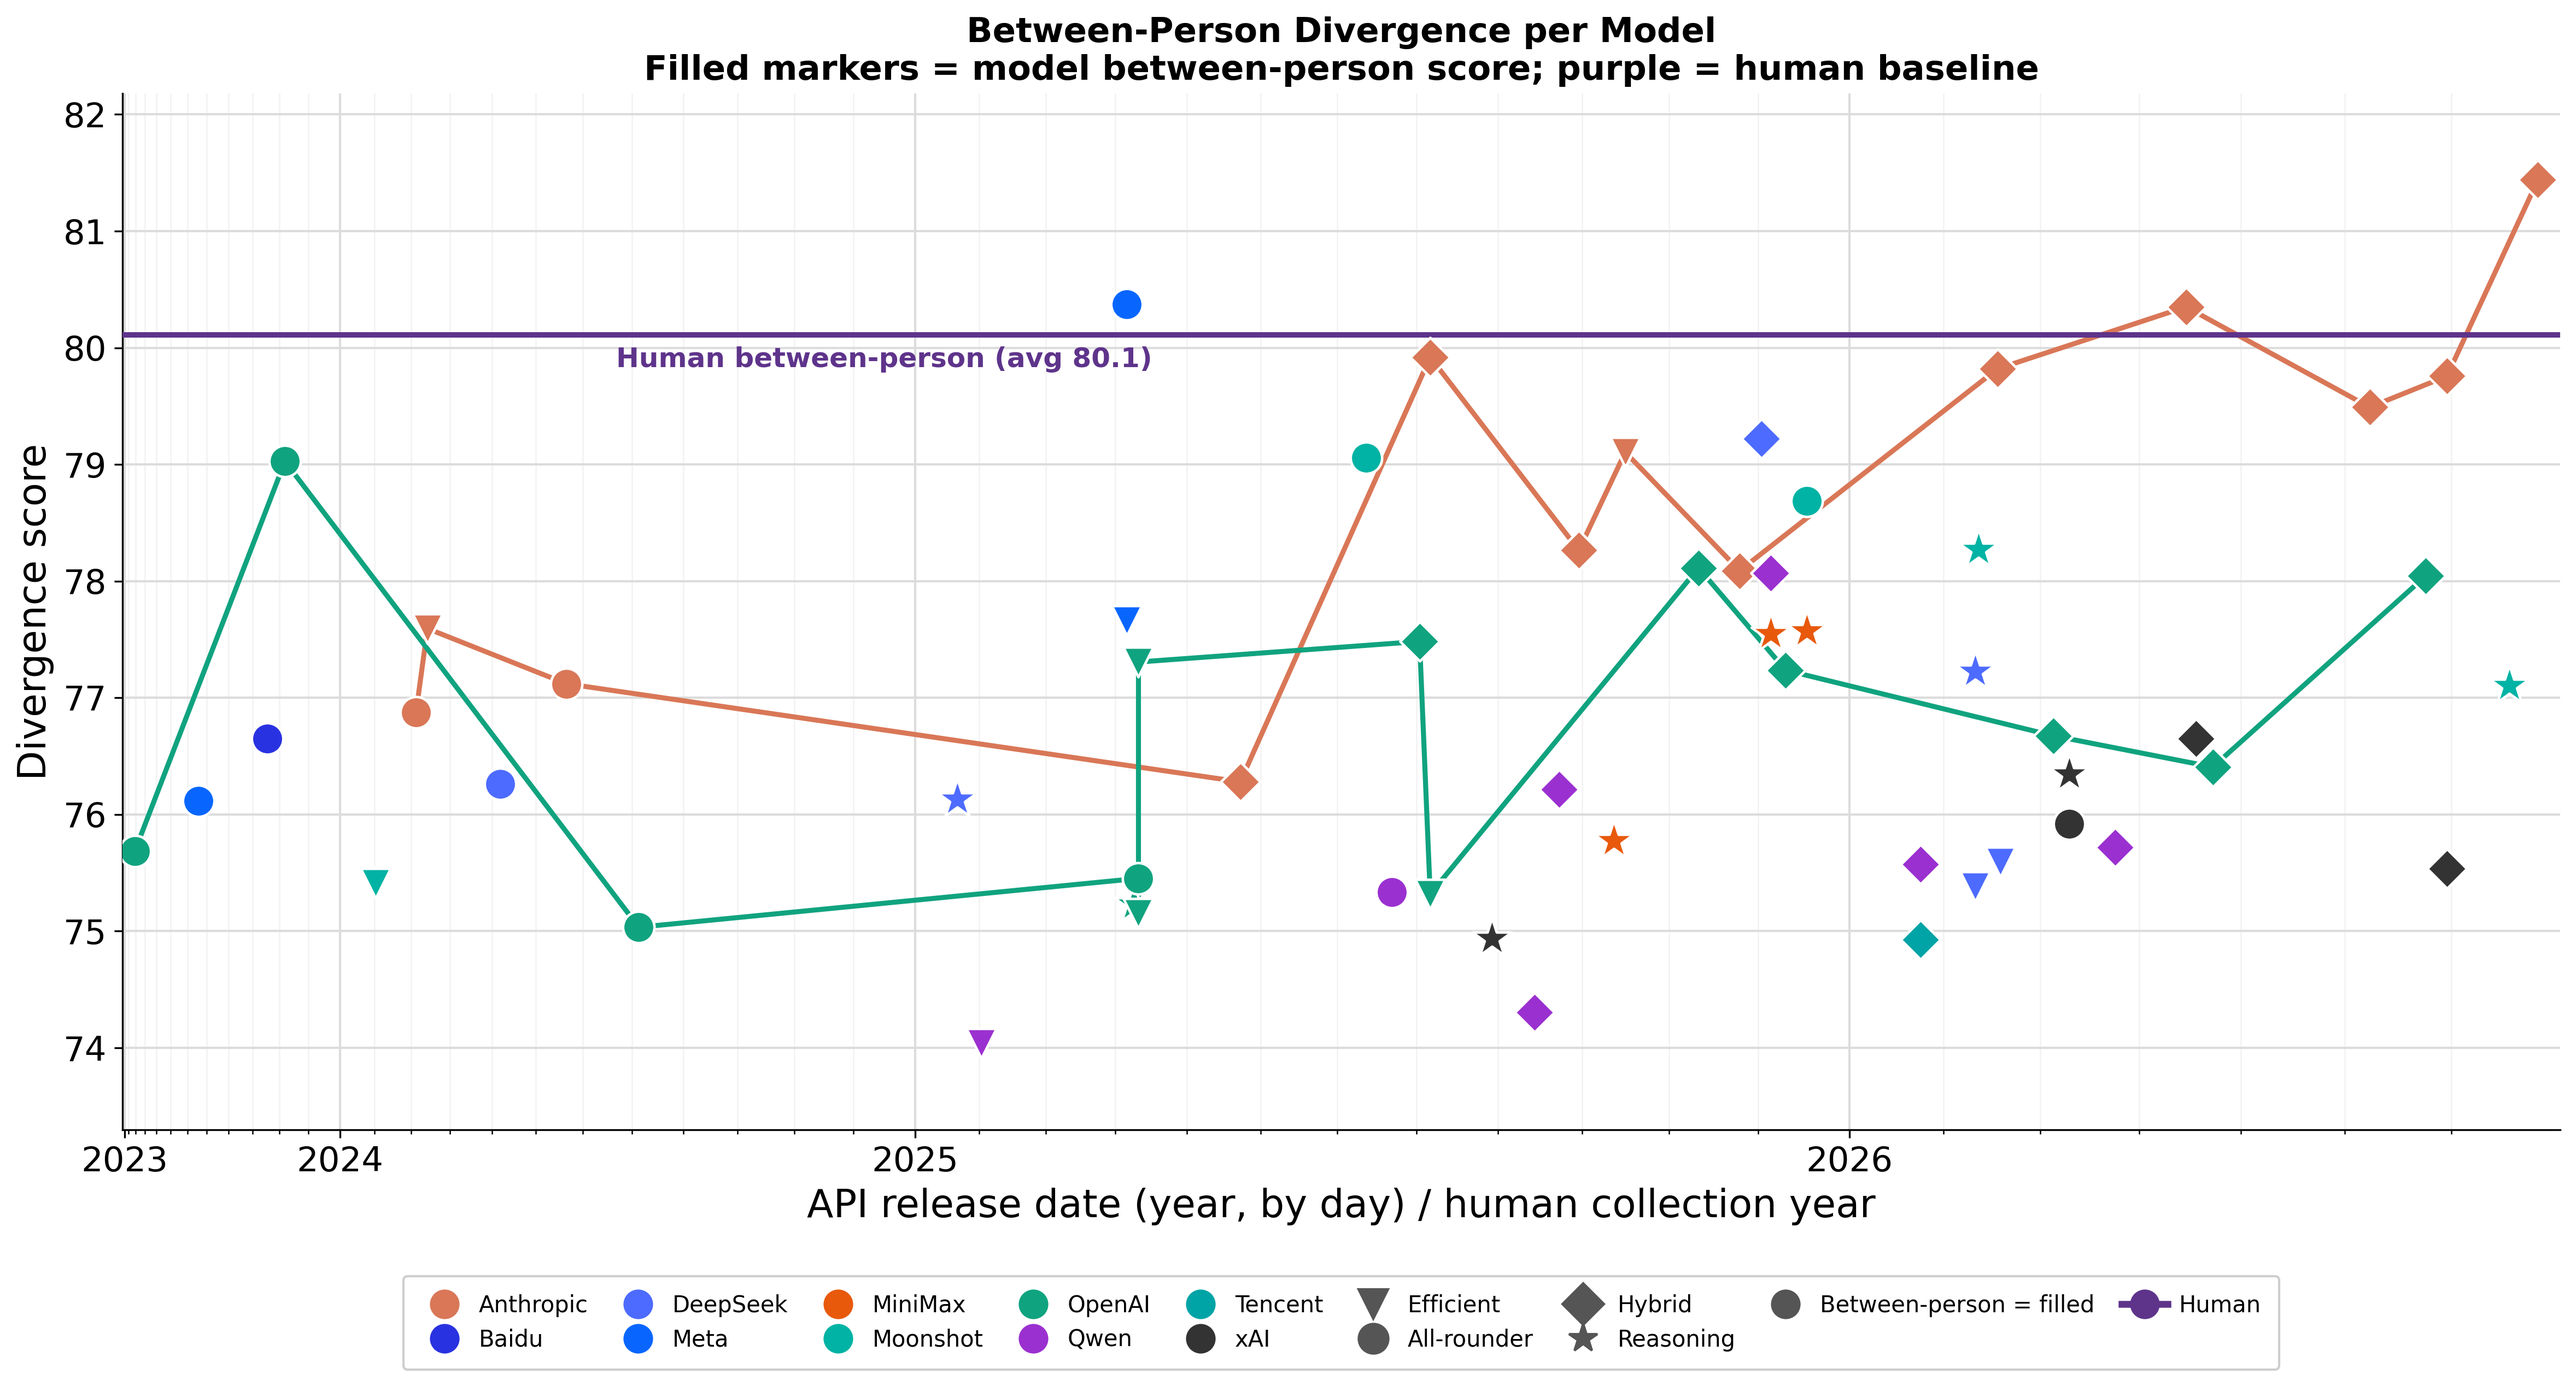
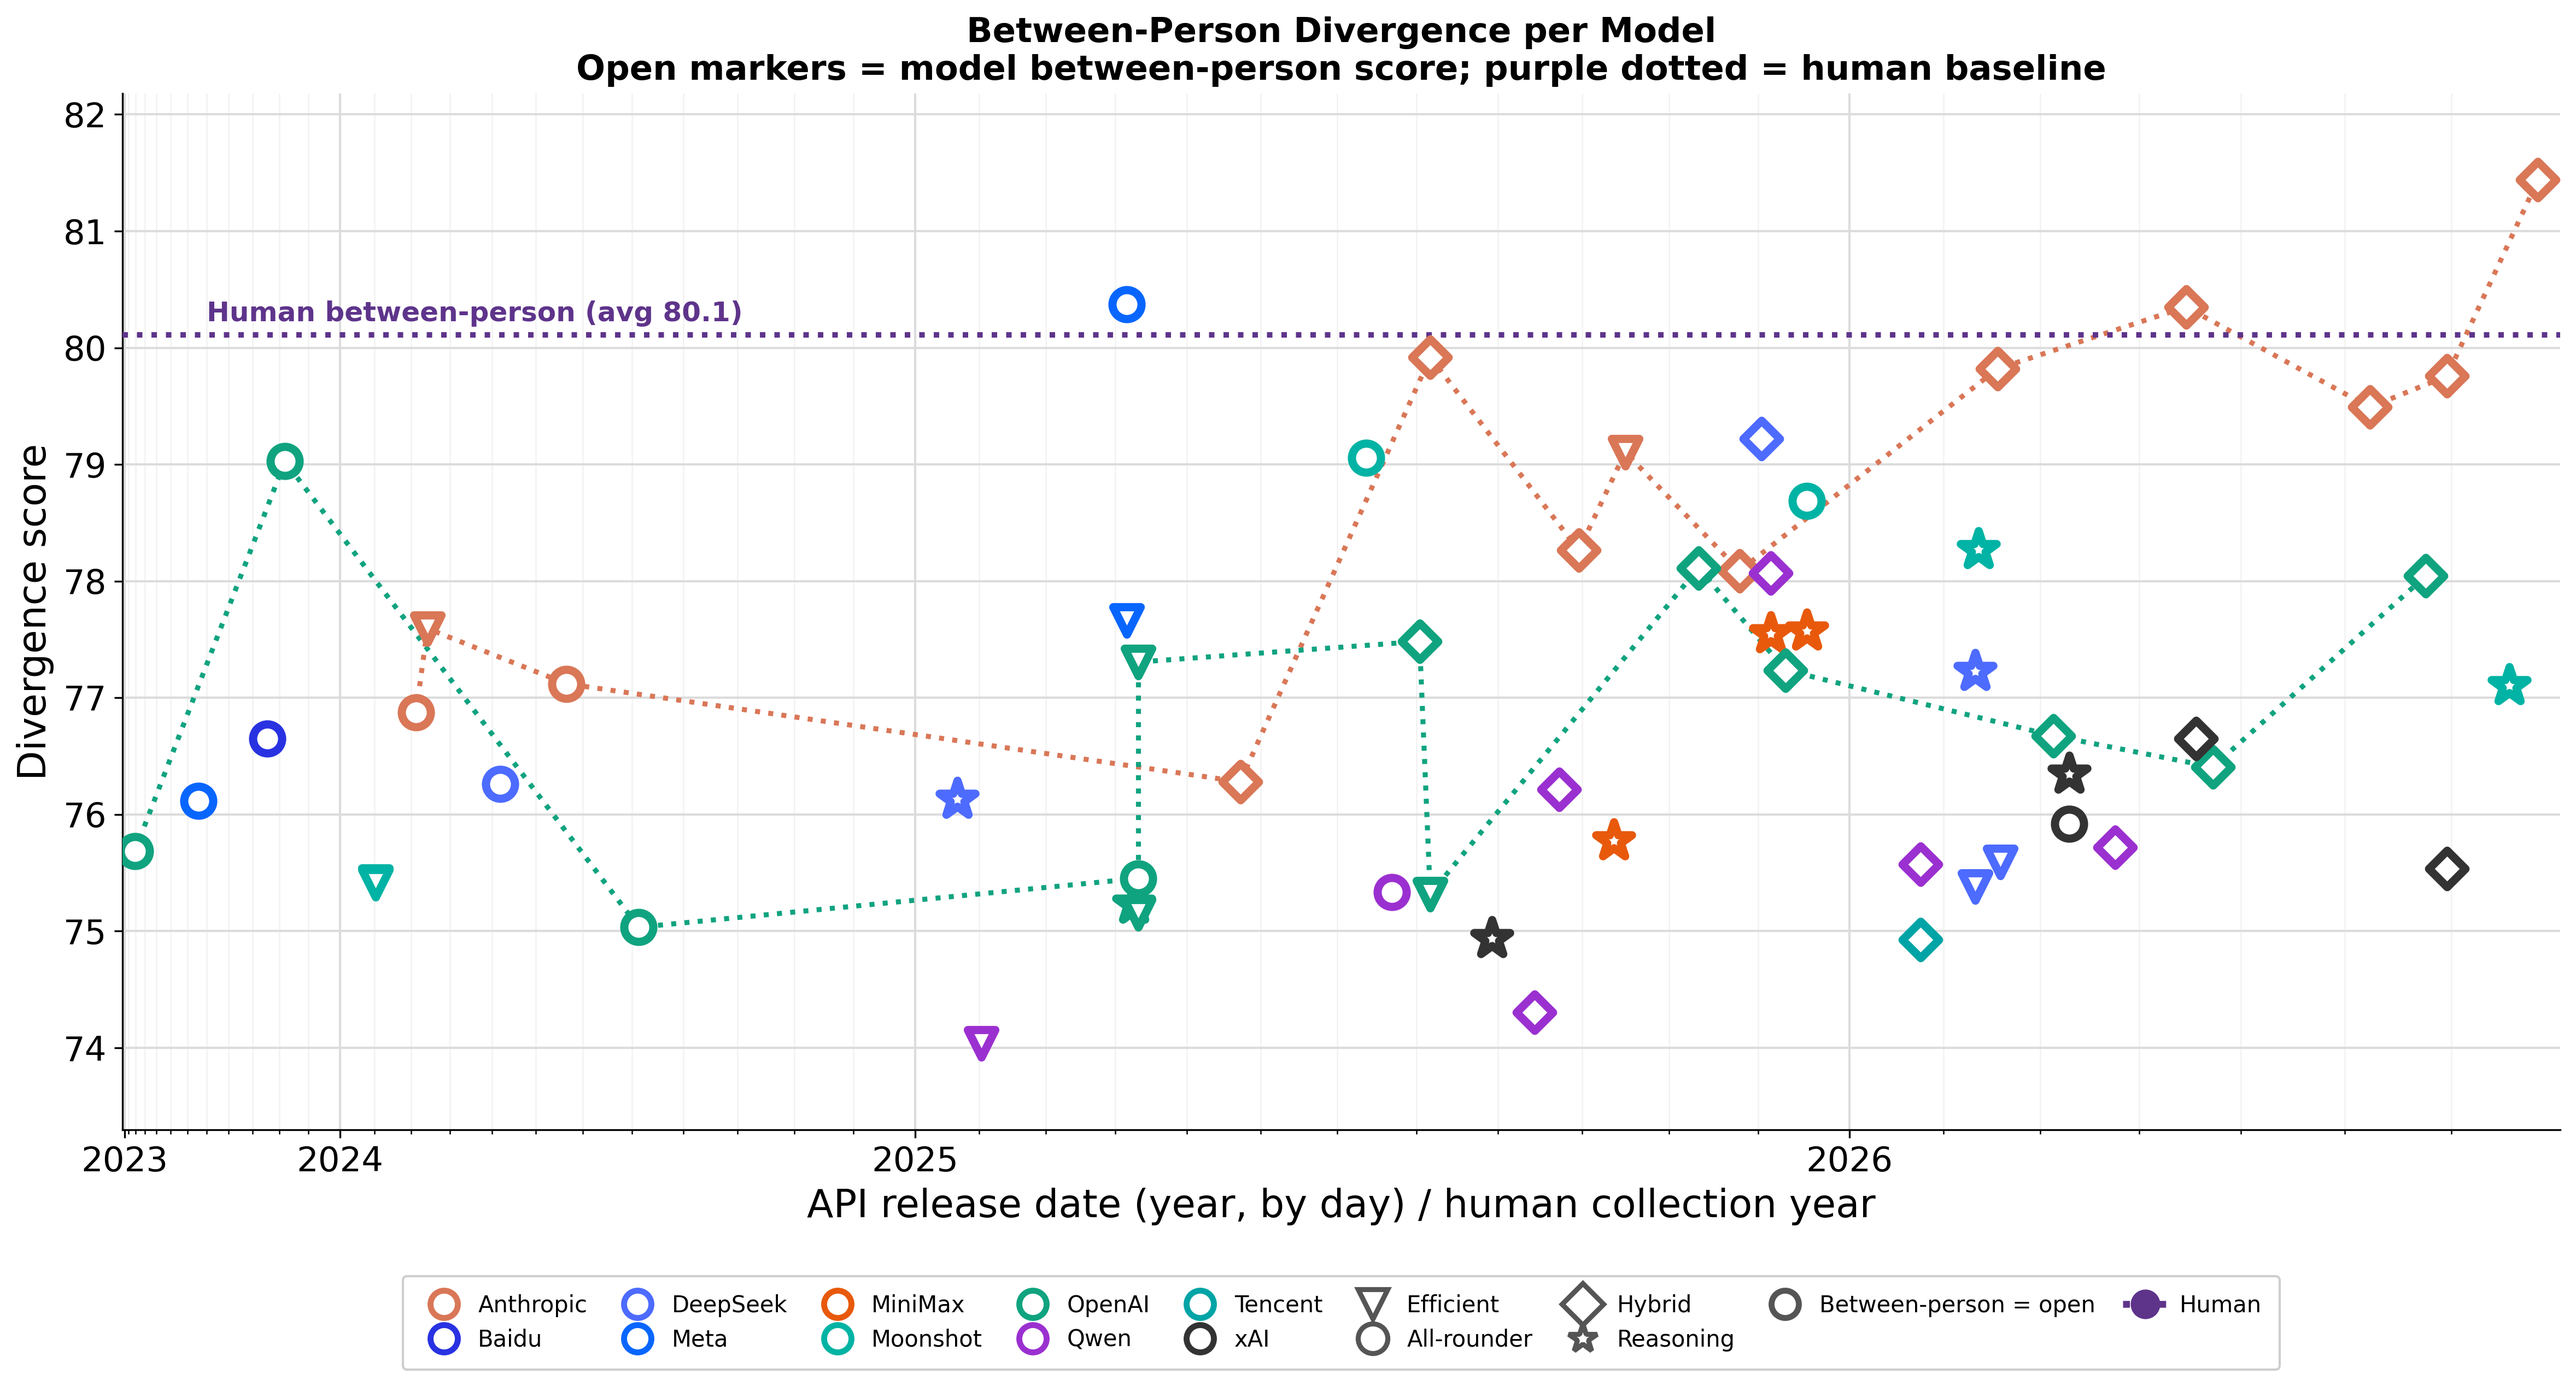
Apply the between-unit styling convention to the between-person figure
The standalone between-person figure was built by copying the DAT figure, so it
inherited the within-person styling: solid lines and filled markers. The agreed
convention is that the between-unit measure is drawn dotted at full alpha with
open, thick provider-coloured markers.

- Human baseline and the Claude/GPT version-evolution lines are now dotted, alpha 1.0.
- Markers are open (white face, provider edge, linewidth 3.6, size x0.855).
- Legend handles match: open provider/intelligence markers, dotted human line.
- Baseline label moved to 2024.3 to clear the Meta marker at 80.34.

diff --git a/analysis/between_only_plot.py b/analysis/between_only_plot.py
@@ -4,13 +4,11 @@ import matplotlib as mpl
 mpl.rcParams.update({'font.size':16,'axes.titlesize':18,'axes.labelsize':18,'xtick.labelsize':15,'ytick.labelsize':15})
 import matplotlib.pyplot as plt
 from matplotlib.lines import Line2D
-from matplotlib.patches import Patch
 
-# --- same expanding x-transform ---
+# --- same expanding x-transform as the other over-time figures ---
 X0=2022.9; GAMMA=2.0
 def tx(x):
-    import numpy as _np
-    return _np.sign(x-X0)*(abs(x-X0)**GAMMA)
+    return np.sign(x-X0)*(abs(x-X0)**GAMMA)
 
 PROV_COLOR={'openai':'#10a37f','anthropic':'#d97757','qwen':'#9b30d0','deepseek':'#4d6bfe','moonshot':'#00b3a4','xai':'#333333','baidu':'#2932e1','meta':'#0866ff','minimax':'#e8590c','tencent':'#00a4a6'}
 PROV_LABEL={'openai':'OpenAI','anthropic':'Anthropic','qwen':'Qwen','deepseek':'DeepSeek','moonshot':'Moonshot','xai':'xAI','baidu':'Baidu','meta':'Meta','minimax':'MiniMax','tencent':'Tencent'}
@@ -21,42 +19,44 @@ def load(fn):
     d=json.load(open(fn)); return {r[6]:r for r in d["recs"]}, {int(k):v for k,v in d["human_year"].items()}
 dat,dat_hy=load("data/permonth_data.json")
 btw,btw_hy=load("data/between_data.json")
-models=[m for m in dat if m in btw]   # same model set as combined fig
+models=[m for m in dat if m in btw]   # same model set as the other two figures
 allx=[dat[m][0] for m in models]; xmin=min(allx)-3/12; xmax=max(allx)+0.2/12
 
 fig,ax=plt.subplots(figsize=(16,9))
-# markers: filled = DAT only
+
+# markers: BETWEEN-UNIT convention = open, thick provider-coloured border, alpha 1.0
 for m in models:
     x=dat[m][0]; p=dat[m][4]; intel=dat[m][5]; col=PROV_COLOR.get(p,'#888')
-    ax.scatter(tx(x),btw[m][7],marker=MARK[intel],s=SIZE[intel],color=col,alpha=1.0,zorder=6,edgecolors='white',linewidths=1.1)
+    ax.scatter(tx(x),btw[m][7],marker=MARK[intel],s=SIZE[intel]*0.855,
+               facecolors='white',edgecolors=col,linewidths=3.6,alpha=1.0,zorder=6)
 
-# human DAT baseline: single solid flat line (same as combined)
+# human between-person baseline: BETWEEN-UNIT convention = dotted, alpha 1.0
 _havg=json.load(open("data/human_avg.json"))
 HUMAN_BTW_AVG=_havg["human_between_mean"]
 _xL,_xR=tx(xmin),tx(xmax)
-ax.plot([_xL,_xR],[HUMAN_BTW_AVG,HUMAN_BTW_AVG],'-',color=HUMAN_PURPLE,lw=2.4,alpha=1.0,zorder=5)
-ax.annotate(f"Human between-person (avg {HUMAN_BTW_AVG:.1f})",(tx(2025-0.5/12),HUMAN_BTW_AVG),textcoords="offset points",xytext=(0,-14),ha='center',fontsize=12,weight='bold',color=HUMAN_PURPLE)
+ax.plot([_xL,_xR],[HUMAN_BTW_AVG,HUMAN_BTW_AVG],':',color=HUMAN_PURPLE,lw=2.4,alpha=1.0,zorder=5)
+ax.annotate(f"Human between-person (avg {HUMAN_BTW_AVG:.1f})",(tx(2024.3),HUMAN_BTW_AVG),
+            textcoords="offset points",xytext=(0,6),ha='center',fontsize=12,weight='bold',color=HUMAN_PURPLE)
 
-# lineage connectors: DAT solid @0.50 only (no between-unit, no shaded gap)
+# version-evolution lines: Claude + GPT only, BETWEEN-UNIT convention = dotted, alpha 1.0
 def _lineage_connectors(prefix, color):
     ms=[m for m in dat if m.lower().startswith(prefix) and m in btw]
     ms.sort(key=lambda m: dat[m][0])
     if len(ms)<2: return
-    _xs=[tx(dat[m][0]) for m in ms]; _yd=[btw[m][7] for m in ms]
-    ax.plot(_xs,_yd,'-',color=color,lw=2.2,alpha=1.0,zorder=4)
+    _xs=[tx(dat[m][0]) for m in ms]; _yb=[btw[m][7] for m in ms]
+    ax.plot(_xs,_yb,':',color=color,lw=2.2,alpha=1.0,zorder=4)
 _lineage_connectors("claude", PROV_COLOR['anthropic'])
 _lineage_connectors("gpt",    PROV_COLOR['openai'])
 
 ax.set_xlim(tx(xmin),tx(xmax))
-_bv=[btw[m][7] for m in models]+[json.load(open('data/human_avg.json'))['human_between_mean']]
+_bv=[btw[m][7] for m in models]+[HUMAN_BTW_AVG]
 _lo,_hi=min(_bv),max(_bv); _pad=(_hi-_lo)*0.10
 ax.set_ylim(_lo-_pad,_hi+_pad)   # independent range: between-person spread is ~half the DAT spread
 _yr=[2023,2024,2025,2026]
 ax.set_xticks([tx(y) for y in _yr]); ax.set_xticklabels([str(y) for y in _yr])
 ax.set_xlabel("API release date (year, by day) / human collection year",fontsize=17)
 ax.set_ylabel("Divergence score",fontsize=17)
-ax.set_title("Between-Person Divergence per Model\nFilled markers = model between-person score; purple = human baseline",fontsize=15,weight='bold')
-import numpy as _np
+ax.set_title("Between-Person Divergence per Model\nOpen markers = model between-person score; purple dotted = human baseline",fontsize=15,weight='bold')
 _months=[y+mn/12 for y in range(2023,2027) for mn in range(12)]
 _months=[m for m in _months if xmin<=m<=xmax]
 ax.set_xticks([tx(m) for m in _months],minor=True)
@@ -64,13 +64,15 @@ ax.grid(which='major',color='#dcdcdc',lw=1.0,zorder=0)
 ax.grid(which='minor',axis='x',color='#f2f2f2',lw=0.6,zorder=0)
 ax.set_axisbelow(True); ax.spines[['top','right']].set_visible(False)
 
-# legend: providers + intelligence + human (no between-unit / gap entries)
+# legend: providers shown as open markers to match the plotted convention
 provs=sorted({dat[m][4] for m in models})
-prov_h=[Line2D([0],[0],marker='o',ls='none',color=PROV_COLOR.get(p,'#888'),ms=12,label=PROV_LABEL.get(p,p)) for p in provs]
+prov_h=[Line2D([0],[0],marker='o',ls='none',markerfacecolor='white',markeredgecolor=PROV_COLOR.get(p,'#888'),
+               markeredgewidth=2.6,ms=12,label=PROV_LABEL.get(p,p)) for p in provs]
 INTEL_LABEL={'efficient':'Efficient','all-rounder':'All-rounder','hybrid':'Hybrid','reasoning':'Reasoning'}
-intel_h=[Line2D([0],[0],marker=MARK[t],ls='none',color='#555',ms=13,label=INTEL_LABEL[t]) for t in ['efficient','all-rounder','hybrid','reasoning']]
-metric_h=[Line2D([0],[0],marker='o',ls='none',color='#555',ms=12,label='Between-person = filled'),
-          Line2D([0],[0],color=HUMAN_PURPLE,lw=3,marker='o',ms=12,label='Human')]
+intel_h=[Line2D([0],[0],marker=MARK[t],ls='none',markerfacecolor='white',markeredgecolor='#555',
+                markeredgewidth=2.2,ms=13,label=INTEL_LABEL[t]) for t in ['efficient','all-rounder','hybrid','reasoning']]
+metric_h=[Line2D([0],[0],marker='o',ls='none',markerfacecolor='white',markeredgecolor='#555',markeredgewidth=2.6,ms=12,label='Between-person = open'),
+          Line2D([0],[0],color=HUMAN_PURPLE,lw=3,ls=':',marker='o',ms=12,label='Human')]
 handles=prov_h+intel_h+metric_h
 ax.legend(handles=handles,loc='upper center',bbox_to_anchor=(0.5,-0.13),ncol=9,fontsize=10,framealpha=0.95,handletextpad=0.5,columnspacing=1.2,borderpad=0.8)
 fig.tight_layout(rect=[0,0.02,1,1])
